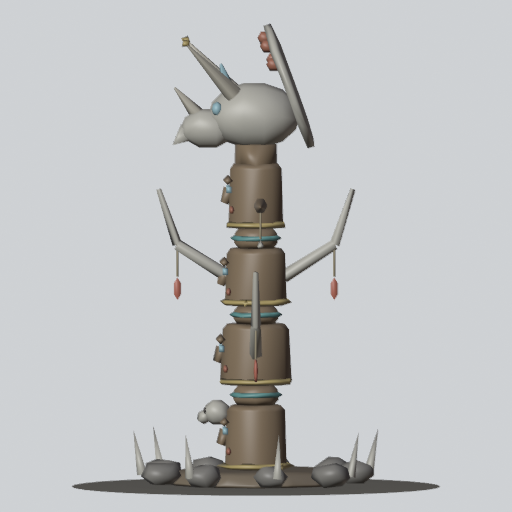
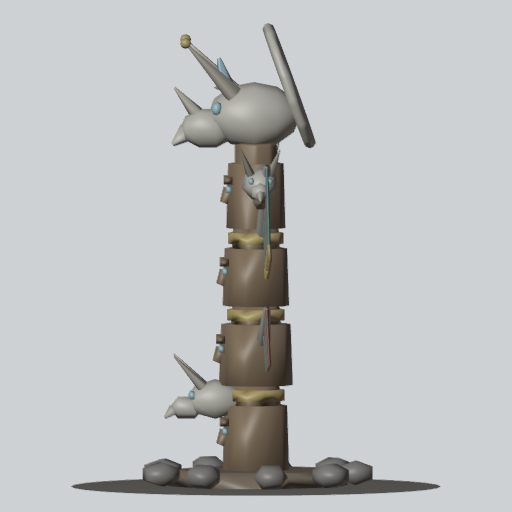
art: Bone Totem (TOTEM) bolder upgrades - S1 great painted wings and a second horned head, S2 two side skulls, lower wing pair, brass bands and feather tips, glowing eyes and brow crystal (#443)

diff --git a/tools/art/models/tower/_totem.py b/tools/art/models/tower/_totem.py
@@ -5,10 +5,12 @@ stays low (under 0.35 studs) so setCharge's ring round the foot still reads.
 
 Stage 0 (tiers 0-2): the stone ring, the carved pole (faces, painted bands), two pairs of ribs
                      with feathers, the skull (frill, brow and nose horns, sockets).
-Stage 1 (tier 3):    a crossbar hung with bone charms on cords, a small second skull on the
-                     pole, a ring of tusks round the stones.
-Stage 2 (tier 5):    brass bands on the pole and brass horn caps, glowing eyes and a glowing
-                     crystal on the brow, glowing rune marks on the carved faces.
+Stage 1 (tier 3):    SPREAD WINGS and a SECOND HEAD - a pair of great feathered wings on bone
+                     struts spread wide from the top of the pole, and a horned second skull
+                     carved on the lower pole.
+Stage 2 (tier 5):    MORE HEADS - two more skulls on a crossbar look out to the sides, a second,
+                     lower pair of wings, brass-tipped feathers, brass bands and horn caps,
+                     every skull's eyes glowing, glowing runes and a glowing brow crystal.
 """
 
 import importlib.util
@@ -31,39 +33,77 @@ GLOW = (150, 230, 255)  # TowerLook TOTEM eye
 SKULL = (0.0, 4.0, -0.02)
 
 
+def wing(k, brass, y0, span, rise, n, flen, hot):
+    """A pair of spread wings off the pole at y0: a bone strut out to x = +-span (rising `rise`),
+    n long feathers hanging from it, longest outermost; painted ochre / teal, brass-tipped when hot."""
+    for sx in (-1, 1):
+        a, b = (sx * 0.28, y0, 0.08), (sx * span, y0 + rise, 0.12)
+        k.add("body", K.rod(a, b, 0.08, 6, top=0.5))
+        for i in range(n):
+            t = (i + 1) / n
+            base = K.along(a, b, t * 0.97)
+            ln = flen * (0.55 + 0.45 * t)
+            tip = (base[0] + sx * 0.08 * t, base[1] - ln, base[2] + 0.03)
+            k.add("ochre" if i % 2 else "paint", K.bar(base, tip, 0.2 + 0.04 * t, 0.035, bevel=0, up=(0, 0, 1)),
+                  piece="feathers2" if i % 2 else "feathers")
+            if hot and flen > 0.7:
+                brass.append(K.bar(K.along(base, tip, 0.86), K.along(base, tip, 1.06), 0.2 + 0.04 * t, 0.05, bevel=0, up=(0, 0, 1)))
+
+
+def head(k, at, s, hot, yaw=0, horns=False):
+    """A smaller horned skull (cranium, snout, beak, horns, eyes) facing -Z turned by yaw."""
+    x, y, z = at
+    ca, sa = math.cos(math.radians(yaw)), math.sin(math.radians(yaw))
+
+    def p(dx, dy, dz):  # local (front = -z) -> world, turned by yaw about y
+        return (x + dx * ca - dz * sa, y + dy, z + dx * sa + dz * ca)
+    k.add("body", K.ell(p(0, 0, 0), (0.42 * s, 0.36 * s, 0.5 * s), 7, 4, rot=(0, -yaw, 0)),
+          K.ell(p(0, -0.14 * s, -0.5 * s), (0.24 * s, 0.22 * s, 0.3 * s), 6, 3, rot=(0, -yaw, 0)),
+          K.rod(p(0, -0.18 * s, -0.72 * s), p(0, -0.32 * s, -0.88 * s), 0.11 * s, 5, top=0.2))
+    if horns:
+        k.add("horn", *[K.rod(p(sx * 0.22 * s, 0.24 * s, -0.22 * s), p(sx * 0.42 * s, 0.78 * s, -0.72 * s), 0.1 * s, 6, top=0.12)
+                        for sx in (-1, 1)])
+    k.add("glow" if hot else "socket", *[K.ell(p(sx * 0.2 * s, 0.08 * s, -0.4 * s), (0.1 * s, 0.09 * s, 0.07 * s), 5, 3)
+                                         for sx in (-1, 1)], piece="eyes")
+
+
 def build(lp, stage):
     k = K.Kit(lp)
     hot = stage >= 2
+    lean = stage >= 1  # the upgrades spend their triangles on wings and heads: plainer base parts
+    bv = 0 if lean else 1
 
     # ring of stones and a low earth mound
-    k.add("earth", K.cyl((0, 0.08, 0), 1.0, 0.16, 16, top=0.85, bevel=0.05))
-    k.add("stone", *[K.ell((math.cos(a) * 1.08, 0.13, math.sin(a) * 1.08), (0.24, 0.15, 0.19), 7, 3, rot=(0, -math.degrees(a), 0))
+    k.add("earth", K.cyl((0, 0.08, 0), 1.0, 0.16, 16, top=0.85, bevel=0.05 * bv))
+    k.add("stone", *[K.ell((math.cos(a) * 1.08, 0.13, math.sin(a) * 1.08), (0.24, 0.15, 0.19), 6 if lean else 7, 3, rot=(0, -math.degrees(a), 0))
                      for a in (i * 2 * math.pi / 9 + 0.2 for i in range(9))])
 
     # the carved pole: fat carved sections and thin necks, painted bands
     segs = [(0.16, 0.7, 0.36), (0.86, 0.22, 0.27), (1.08, 0.66, 0.4), (1.74, 0.2, 0.27), (1.94, 0.62, 0.36), (2.56, 0.22, 0.26), (2.78, 0.7, 0.32)]
     fat, thin = [], []
     for y, h, r in segs:
-        (fat if h > 0.5 else thin).append(K.cyl((0, y + h / 2, 0), r, h, 10, top=0.94, bevel=0.06))
+        (fat if h > 0.5 else thin).append(K.cyl((0, y + h / 2, 0), r, h, 10, top=0.94, bevel=0.06 * bv))
     k.add("pole", *fat, *thin)
-    k.add("paint", *[K.ring((0, y + h / 2, 0), r - 0.02, 0.05, 10, 3) for y, h, r in segs if h < 0.5], piece="bands")
+    if not hot:  # painted bands on the necks (stage 2: brass bands instead)
+        k.add("paint", *[K.ring((0, y + h / 2, 0), r - 0.02, 0.05, 10, 3) for y, h, r in segs if h < 0.5], piece="bands")
     # a carved face on each fat section: brow ridge, eye slits, a nose, painted cheeks
     faces, eyes, cheeks = [], [], []
     for y, h, r in segs:
         if h < 0.5:
             continue
         fy = y + h * 0.6
-        faces += [K.rbox((0, fy + 0.1, -r + 0.02), (r * 1.3, 0.08, 0.1), bevel=0.03),
+        faces += [K.rbox((0, fy + 0.1, -r + 0.02), (r * 1.3, 0.08, 0.1), bevel=0.03 * bv),
                   K.rod((0, fy, -r + 0.04), (0, fy - 0.15, -r - 0.02), 0.075, 6, top=0.7)]
         eyes += [K.rbox((sx * r * 0.38, fy, -r + 0.03), (r * 0.36, 0.07, 0.06), bevel=0.0) for sx in (-1, 1)]
-        cheeks += [K.ell((sx * r * 0.55, fy - 0.22, -r * 0.82), (0.07, 0.05, 0.03), 5, 3) for sx in (-1, 1)]
+        cheeks += [K.ell((sx * r * 0.55, fy - 0.22, -r * 0.82), (0.07, 0.05, 0.03), 5, 3) for sx in (-1, 1)] if not hot else []
     k.add("pole", *faces)
     k.add("glow" if hot else "socket", *eyes, piece="runes")
-    k.add("ochre", *cheeks)
+    if not hot:
+        k.add("ochre", *cheeks)
 
     # rib bones arching out of the pole, feathers on cords at their tips
     ribs, feathers, cords = [], [], []
-    for y, yaw in ((1.4, 0), (2.25, 90)):
+    for y, yaw in ((1.4, 0), (2.25, 90)) if not lean else ():
         for s in (-1, 1):
             a = math.radians(yaw)
             out = (math.cos(a) * s, math.sin(a) * s)
@@ -73,14 +113,15 @@ def build(lp, stage):
             ribs += [K.rod(p0, p1, 0.07, 6), K.rod(p1, p2, 0.06, 6, top=0.5)]
             cords.append(K.rod(p1, (p1[0], p1[1] - 0.35, p1[2]), 0.012, 4))
             feathers.append(K.ell((p1[0], p1[1] - 0.48, p1[2]), (0.05, 0.14, 0.025), 6, 3, rot=(0, yaw, 0)))
-    k.add("body", *ribs)
-    k.add("rope", *cords)
-    k.add("feather", *feathers)
+    if not lean:  # (the upgrades' wings take the ribs' place)
+        k.add("body", *ribs)
+        k.add("rope", *cords)
+        k.add("feather", *feathers)
 
     # the great skull: cranium, beak, frill, horns, sockets
     x, y, z = SKULL
     k.add("pole", K.cyl((0, 3.55, 0), 0.24, 0.3, 8))  # neck stub under the skull
-    skull = [K.ell((x, y, z), (0.42, 0.36, 0.5), 12, 7),
+    skull = [K.ell((x, y, z), (0.42, 0.36, 0.5), 10 if lean else 12, 6 if lean else 7),
              K.ell((x, y - 0.14, z - 0.5), (0.24, 0.22, 0.3), 10, 5),  # snout
              K.rod((x, y - 0.18, z - 0.72), (x, y - 0.32, z - 0.88), 0.11, 6, top=0.2)]  # beak
     frill = K.cyl((x, y + 0.32, z + 0.38), 0.72, 0.12, 14, rot=(70, 0, 0), bevel=0.04)
@@ -88,10 +129,11 @@ def build(lp, stage):
     k.add("body", *skull)
     s70, c70 = math.sin(math.radians(70)), math.cos(math.radians(70))
     spots = []
-    for t in (-2.6, -2.1, -1.57, -1.05, -0.55):  # the upper rim
+    for t in (-2.6, -2.1, -1.57, -1.05, -0.55) if not hot else ():  # the upper rim
         px, py, pz = 0.58 * math.cos(t), -0.58 * math.sin(t) * s70, 0.58 * math.sin(t) * c70
         spots.append(K.ell((x + px, y + 0.32 + py - 0.34 * 0.07, z + 0.38 + pz - 0.94 * 0.07), (0.08, 0.08, 0.08), 6, 3))
-    k.add("ochre", *spots, piece="frillspots")  # painted dots on the frill rim  # painted dots on the frill rim
+    if not hot:
+        k.add("ochre", *spots, piece="frillspots")  # painted dots on the frill rim  # painted dots on the frill rim
     horns = [K.rod((sx * 0.22, y + 0.24, z - 0.22), (sx * 0.42, y + 0.78, z - 0.72), 0.1, 8, top=0.12) for sx in (-1, 1)]
     horns.append(K.rod((x, y + 0.02, z - 0.62), (x, y + 0.3, z - 0.86), 0.08, 6, top=0.15))
     k.add("horn", *horns)
@@ -99,28 +141,22 @@ def build(lp, stage):
 
     brass = []
     if stage >= 1:
-        # a crossbar hung with bone charms
-        cy = 3.05
-        k.add("pole", K.rod((-0.95, cy, 0.05), (0.95, cy, 0.05), 0.07, 6))
-        charms, strings = [], []
-        for cx in (-0.85, -0.55, 0.55, 0.85):
-            strings.append(K.rod((cx, cy, 0.05), (cx, cy - 0.35, 0.05), 0.012, 4))
-            charms.append(K.rod((cx - 0.08, cy - 0.42, 0.05), (cx + 0.08, cy - 0.42, 0.05), 0.03, 5))
-            charms += [K.ell((cx + sx * 0.09, cy - 0.42, 0.05), (0.04, 0.04, 0.04), 5, 3) for sx in (-1, 1)]
-        k.add("rope", *strings)
-        k.add("body", *charms)
-        # a small skull on the lower carved section
-        k.add("body", K.ell((0, 0.78, -0.42), (0.17, 0.14, 0.15), 8, 5), K.ell((0, 0.73, -0.56), (0.1, 0.08, 0.08), 6, 4))
-        k.add("socket", *[K.ell((sx * 0.07, 0.8, -0.55), (0.035, 0.035, 0.02), 4, 3) for sx in (-1, 1)])
-        # a ring of tusks round the stones
-        k.add("body", *[K.rod((math.cos(a) * 1.25, 0.12, math.sin(a) * 1.25), (math.cos(a) * 1.35, 0.6, math.sin(a) * 1.35), 0.06, 5, top=0.15)
-                        for a in (i * 2 * math.pi / 8 + 0.6 for i in range(8)) if not (0.4 < a % (2 * math.pi) < 1.2)])
-
+        # the great wings: a bone strut out and up, long painted feathers hanging from it
+        wing(k, brass, 2.75, 1.25, 0.75, 5, 0.95, hot)
+        # a second, horned head carved on the lower pole
+        head(k, (0.0, 0.92, -0.44), 0.62, hot, horns=True)
     if stage >= 2:
-        brass += [K.ring((0, y0, 0), r + 0.01, 0.04, 10, 3) for y0, r in ((0.2, 0.36), (1.12, 0.4), (1.98, 0.36), (2.82, 0.32))]
-        brass += [K.ell((sx * 0.42, y + 0.8, z - 0.74), (0.05, 0.05, 0.05), 6, 4) for sx in (-1, 1)]  # horn caps
-        k.add("glow", K.rod((0, y + 0.34, z - 0.3), (0, y + 0.56, z - 0.36), 0.07, 6, top=0.2), piece="crystal")
-        brass.append(K.ring((0, y + 0.34, z - 0.3), 0.08, 0.02, 8, 3))
+        wing(k, brass, 1.55, 1.05, 0.4, 4, 0.6, hot)  # a lower pair of wings
+        # a crossbar with two more skulls looking out to the sides
+        cy = 3.1
+        k.add("pole", K.rod((-1.0, cy, 0.05), (1.0, cy, 0.05), 0.08, 6))
+        for sx in (-1, 1):
+            head(k, (sx * 0.98, cy + 0.2, 0.05), 0.5, hot, yaw=sx * 90, horns=True)
+        brass += [K.cyl((0, y0 + h / 2, 0), r + 0.04, 0.12, 10, bevel=0) for y0, h, r in segs if h < 0.5]
+        brass += [K.ell((sx * 0.42, y + 0.8, z - 0.74), (0.06, 0.06, 0.06), 6, 4) for sx in (-1, 1)]  # horn caps
+        k.add("glow", K.rod((0, y + 0.3, z - 0.3), (0, y + 0.62, z - 0.38), 0.1, 6, top=0.2), piece="crystal")
+        brass.append(K.ring((0, y + 0.3, z - 0.3), 0.11, 0.025, 8, 3))
+    if brass:
         k.add("brass", *brass)
 
     colors = {
